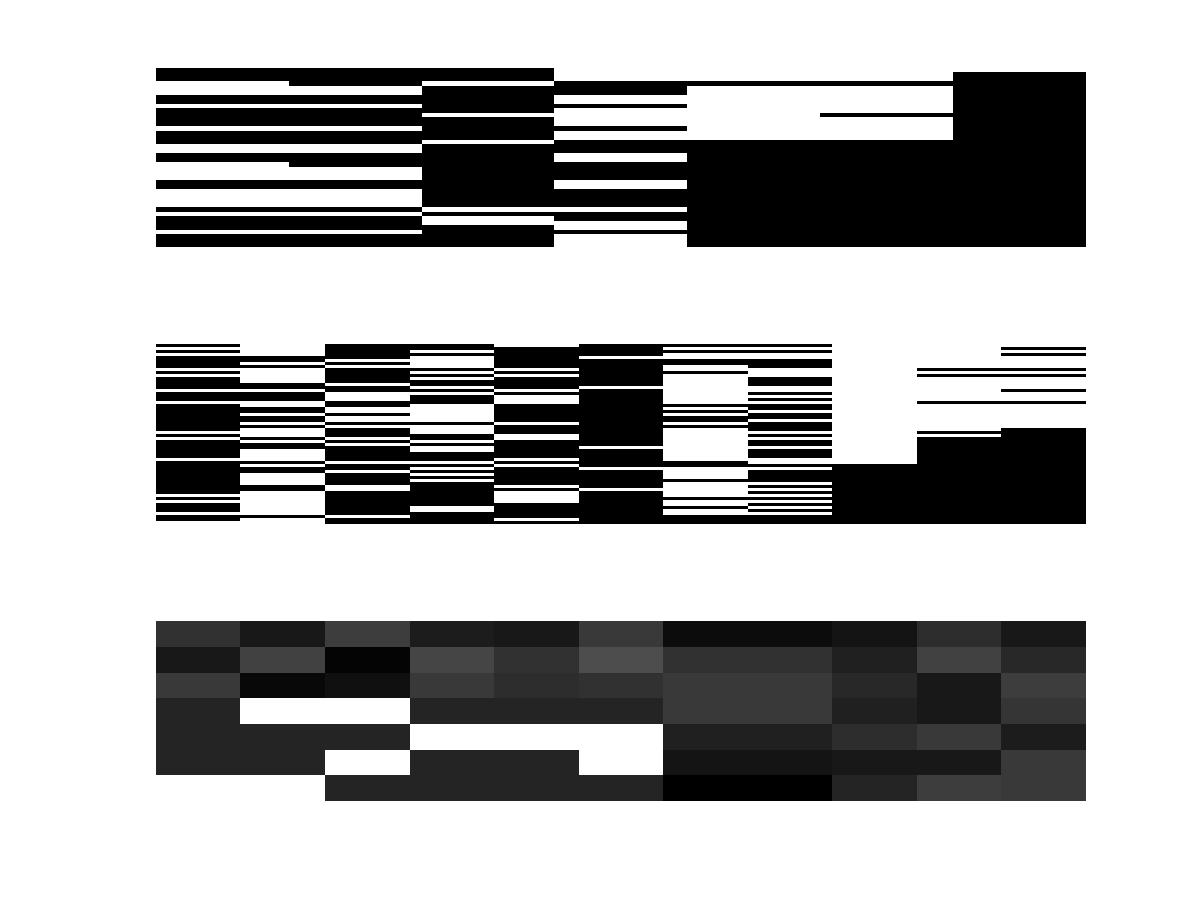
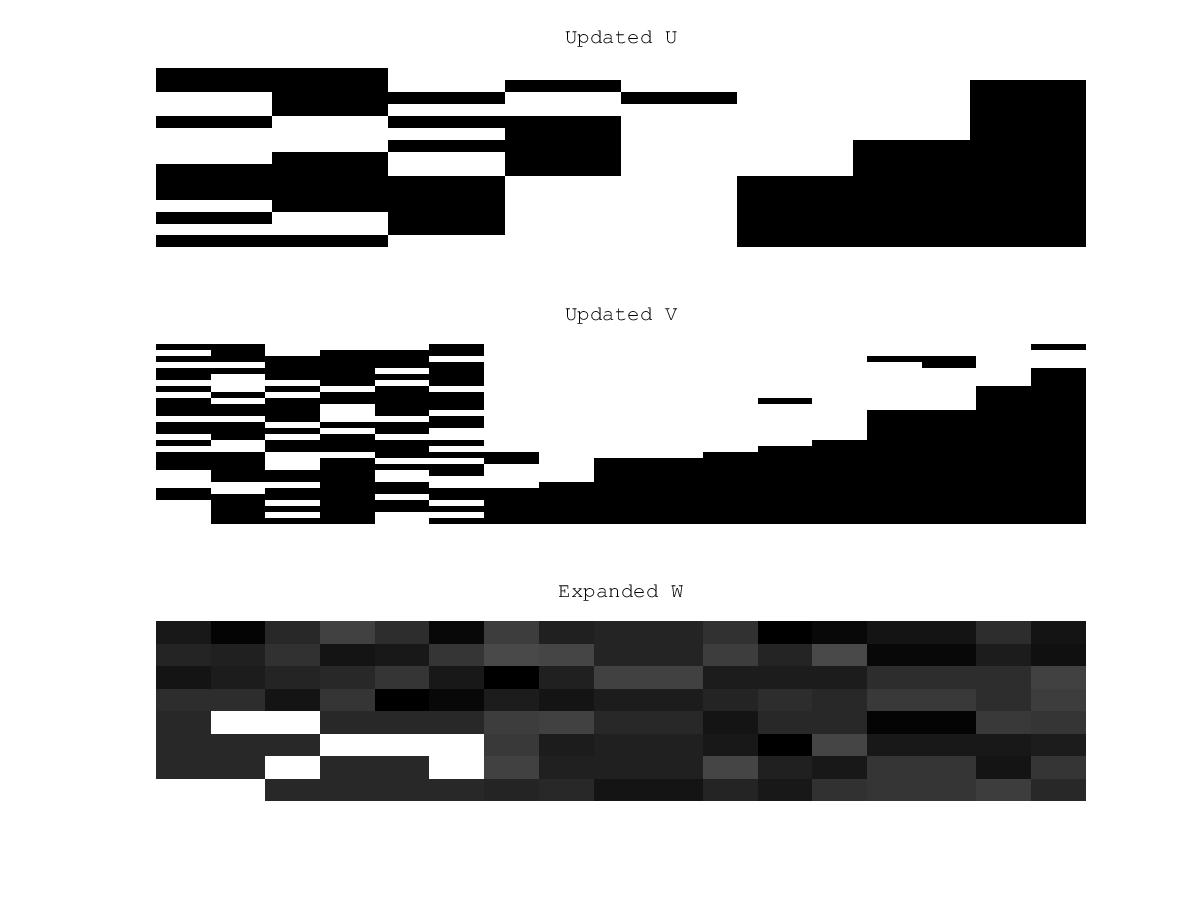
Test script of sampling related functions

diff --git a/dIBP/dIBP/dIBP_test.m b/dIBP/dIBP/dIBP_test.m
@@ -1,0 +1,111 @@
+%% This script tests all functions related to dIBP sampling
+tic();
+
+%% load package
+pkg load statistics;
+
+
+%%%%%%%%%%%%%%%%%%%%%%%%%%%%%%%%%%%%%%%%%%%%%%%%%%%%%%%
+%% synthetic data
+%%%%%%%%%%%%%%%%%%%%%%%%%%%%%%%%%%%%%%%%%%%%%%%%%%%%%%%
+
+% fix random seed
+seed = 20160209;
+
+% initialization (tell the difference between initialization and ground truth)
+sigma_w = .1;
+nuep = -.2;
+alpha = 1; beta = 1;
+K_inf = 15; L_inf = 15;
+a = 2; b = 5; c = 1;
+
+% synthetic data
+I = 40; J = 60;
+K = 4; L = 6;
+M = max(K, L);
+W_true = [[1, 1, 0, 0, 0, 0]; 
+    [0, 0, 1, 0, 0, 1]; 
+    [0, 0, 0, 1, 1, 1]; 
+    [0, 1, 1, 0, 0, 0]];
+[U_true, V_true, Z_true, X] = synthetic(W_true, I, J, K, L);
+
+% initialization
+U = U_true; V = V_true; W = W_true; Z = Z_true;
+
+[lambda_u, lambda_v] = bibetarnd(M, a, b, 1);
+mu_u= cumprod(lambda_u);
+mu_v = cumprod(lambda_v);
+mu = [mu_u, mu_v];
+
+% open gnuplot before plotting
+% initiate graph
+
+% x = 1:10;
+% plot(sin(x));
+% clf;
+% subplot(2,2,1); imagesc(U_true); colormap(gray); title('True feature U'); axis off
+% subplot(2,2,2); imagesc(V_true); colormap(gray); title('True feature V'); axis off
+% subplot(2,2,3); imagesc(W_true); colormap(gray); title('True weight W'); axis off
+% subplot(2,2,4); imagesc(X); colormap(gray); title('True bipartite network'); axis off
+% print("./output/figure/data_synthetic.jpg", "-djpg");
+
+
+%%%%%%%%%%%%%%%%%%%%%%%%%%%%%%%%%%%%%%%%%%%%%%%%%%%%%%%
+%% Test sampling of MU
+%%%%%%%%%%%%%%%%%%%%%%%%%%%%%%%%%%%%%%%%%%%%%%%%%%%%%%%
+
+% Test samplemu.m 
+printf('Sampling MU ...\n');
+[mu_u, mu_v] = samplemu(U, V, mu_u, mu_v, a, b);
+mu = match_with_zero(mu_u, mu_v);
+
+
+%%%%%%%%%%%%%%%%%%%%%%%%%%%%%%%%%%%%%%%%%%%%%%%%%%%%%%%
+%% Test sampling of U and V
+%%%%%%%%%%%%%%%%%%%%%%%%%%%%%%%%%%%%%%%%%%%%%%%%%%%%%%%
+
+% Test sampleUV.m
+printf('Updating features for U and V ...\n');
+[U, V, W] = sampleUV(Z, U, V, W, nuep, a, b, sigma_w); 
+% TEST OK. BUT A LITTLE. BUT A LITTLE TOO LONG
+
+% clf;
+% subplot(3, 1, 1); imagesc(U); colormap(gray); title('Updated U'); axis off
+% subplot(3, 1, 2); imagesc(V); colormap(gray); title('Updated V'); axis off
+% subplot(3, 1, 3); imagesc(W); colormap(gray); title('Expanded W'); axis off
+% print("./output/figure/UVW.jpg", "-djpg");
+
+
+%%%%%%%%%%%%%%%%%%%%%%%%%%%%%%%%%%%%%%%%%%%%%%%%%%%%%%%
+%% Test sampling of U and V
+%%%%%%%%%%%%%%%%%%%%%%%%%%%%%%%%%%%%%%%%%%%%%%%%%%%%%%%
+printf('Updating weight matrix W ...\n');
+W = sampleW(Z, U, V, nuep, sigma_w);
+
+
+%%%%%%%%%%%%%%%%%%%%%%%%%%%%%%%%%%%%%%%%%%%%%%%%%%%%%%%
+%% Test sampling of U and V
+%%%%%%%%%%%%%%%%%%%%%%%%%%%%%%%%%%%%%%%%%%%%%%%%%%%%%%%
+printf('Updating auxiliary data Z ...\n');
+Z = sampleZ(X, U, V, W, nuep);
+
+
+%%%%%%%%%%%%%%%%%%%%%%%%%%%%%%%%%%%%%%%%%%%%%%%%%%%%%%%
+%% Test updating of parameters
+%%%%%%%%%%%%%%%%%%%%%%%%%%%%%%%%%%%%%%%%%%%%%%%%%%%%%%%
+[a, b] = updateAB(a, b, mu);
+% warning: division by zero
+% warning: called from
+%     updateAB at line 17 column 9
+%     dIBP_test.m at line 96 column 6
+sigma_w = updateSigw(sigma_w, U, V, W, Z, nuep);
+samplenuep(U, V, W, Z);
+
+toc();
+
+
+
+
+
+
+
